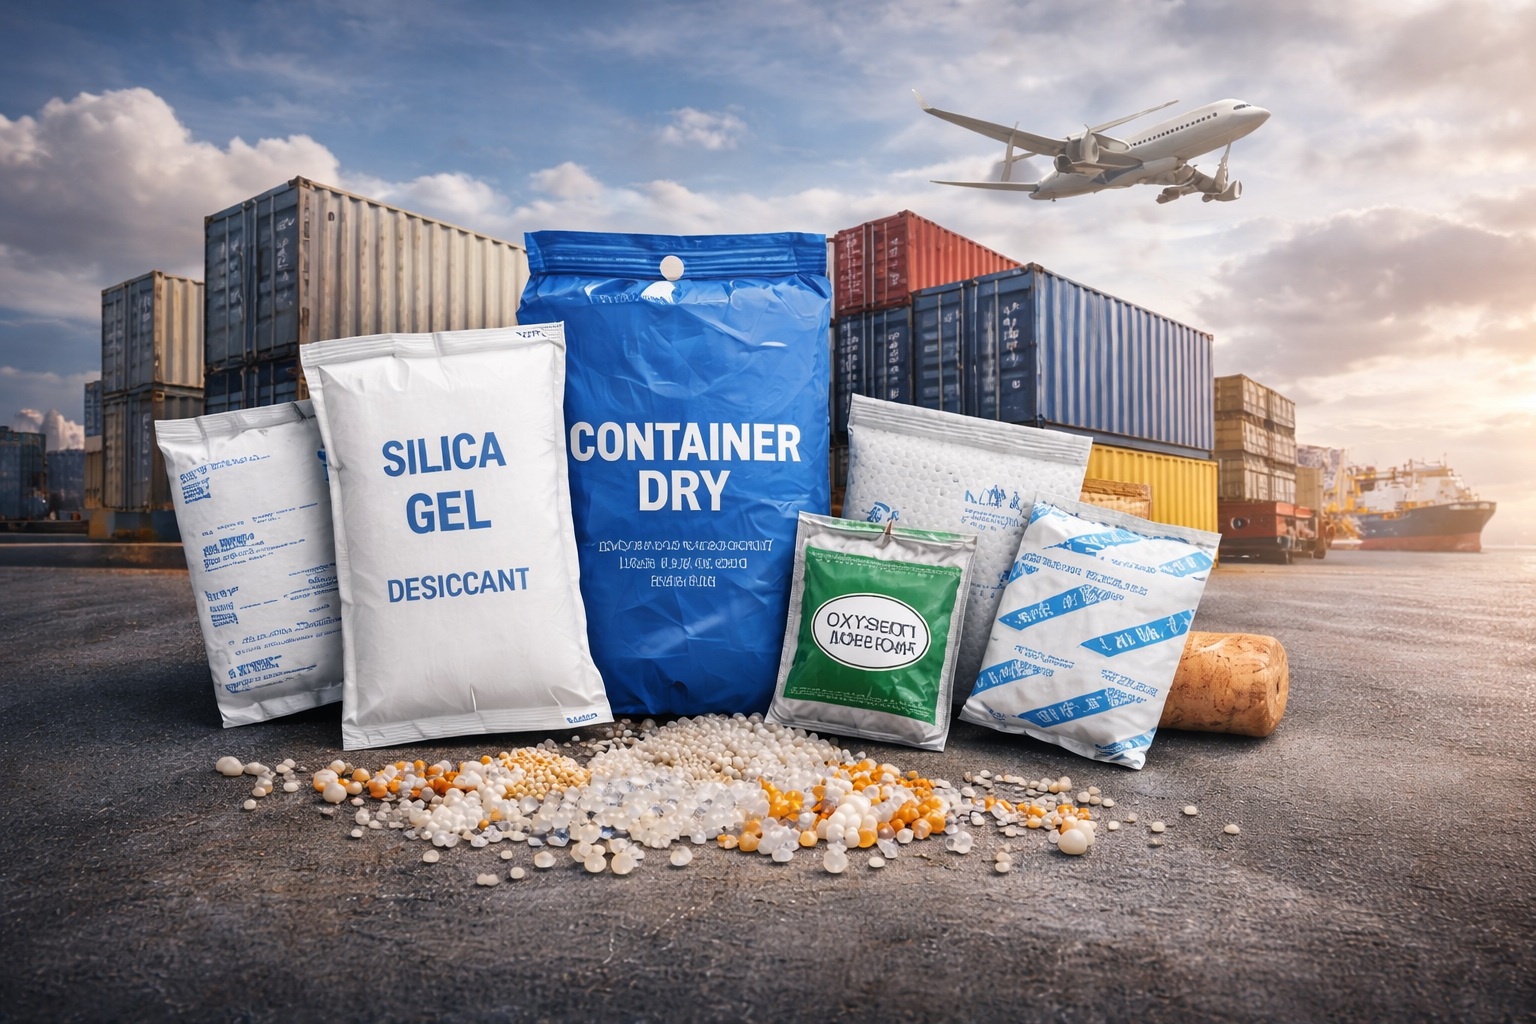
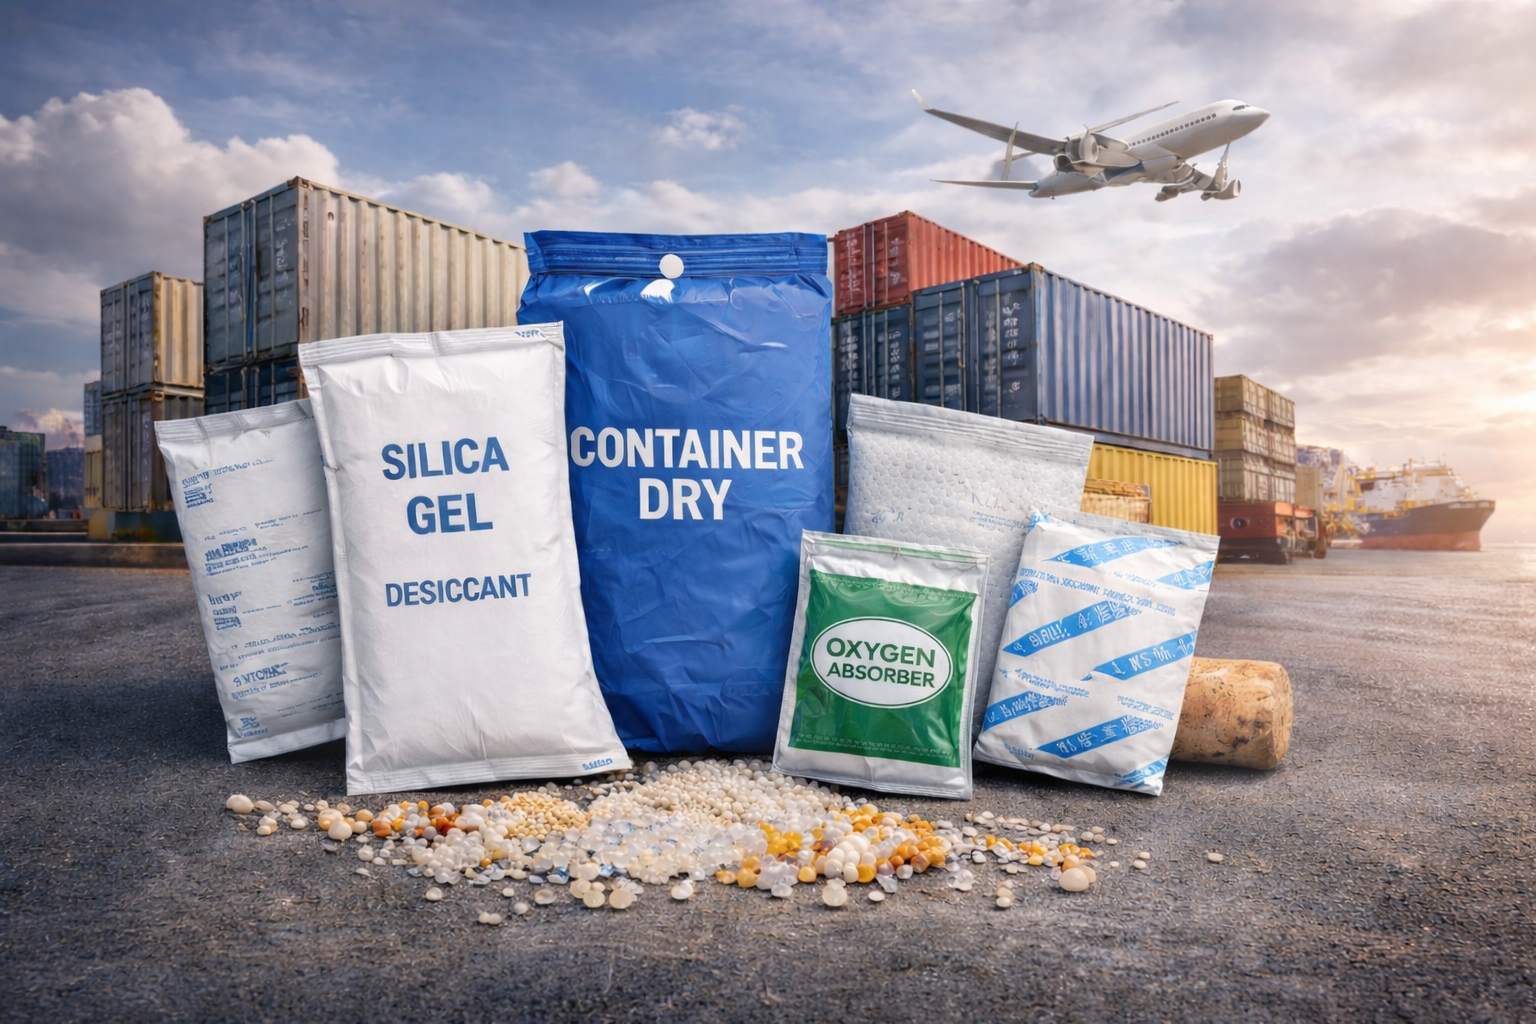
change img  and add too.

diff --git a/src/app/desiccants/desiccants.html b/src/app/desiccants/desiccants.html
@@ -221,11 +221,11 @@
                     <div class="absolute -inset-5 bg-blue-100 rounded-3xl -z-10"></div>
 
                     <!-- Calcium Image -->
-                    <img *ngIf="activeSolution === 'box'" src="/food.png" alt="Calcium Chloride Desiccants"
+                    <img *ngIf="activeSolution === 'box'" src="/ccd.png" alt="Calcium Chloride Desiccants"
                         class="w-full max-w-md rounded-2xl shadow-md">
 
                     <!-- Magnesium Image -->
-                    <img *ngIf="activeSolution === 'container'" src="/container.png" alt="Magnesium Chloride Desiccants"
+                    <img *ngIf="activeSolution === 'container'" src="/mcd.png" alt="Magnesium Chloride Desiccants"
                         class="w-full max-w-md rounded-2xl shadow-md">
                 </div>
             </div>
@@ -391,7 +391,7 @@
                     <img *ngIf="adsorbent === 'silicaGel'" src="/inbox3.png" alt="Silica Gel Desiccant"
                         class="w-full max-w-md rounded-2xl shadow-md">
 
-                    <img *ngIf="adsorbent === 'dryClayDesiccant'" src="/dry.png" alt="Dry Clay Desiccant"
+                    <img *ngIf="adsorbent === 'dryClayDesiccant'" src="/dcd.png" alt="Dry Clay Desiccant"
                         class="w-full max-w-md rounded-2xl shadow-md">
 
                     <img *ngIf="adsorbent === 'molecularSieves'" src="/Molecular.png" alt="Molecular Sieves Desiccant"

diff --git a/src/app/home/home.ts b/src/app/home/home.ts
@@ -32,7 +32,7 @@ export class Home implements OnInit, AfterViewInit, OnDestroy {
   heroSlides = [
     { bg: '/banner1.png', left: 'cd.png', right: 'food.png', title: 'Advanced Moisture Protection' },
     { bg: 'banner2.png', left: 'vtc1.png', right: 'container.png', title: 'Engineered for Global Shipping' },
-    { bg: 'banner3.png', left: 'incubic.png', right: ' is.png', title: 'Complete Moisture Protection Solutions' }
+    { bg: 'banner3.png', left: 'incubic.png', right: ' iss.png', title: 'Complete Moisture Protection Solutions' }
   ];
 
   /* ================= MOBILE PROCESS SLIDER ================= */
